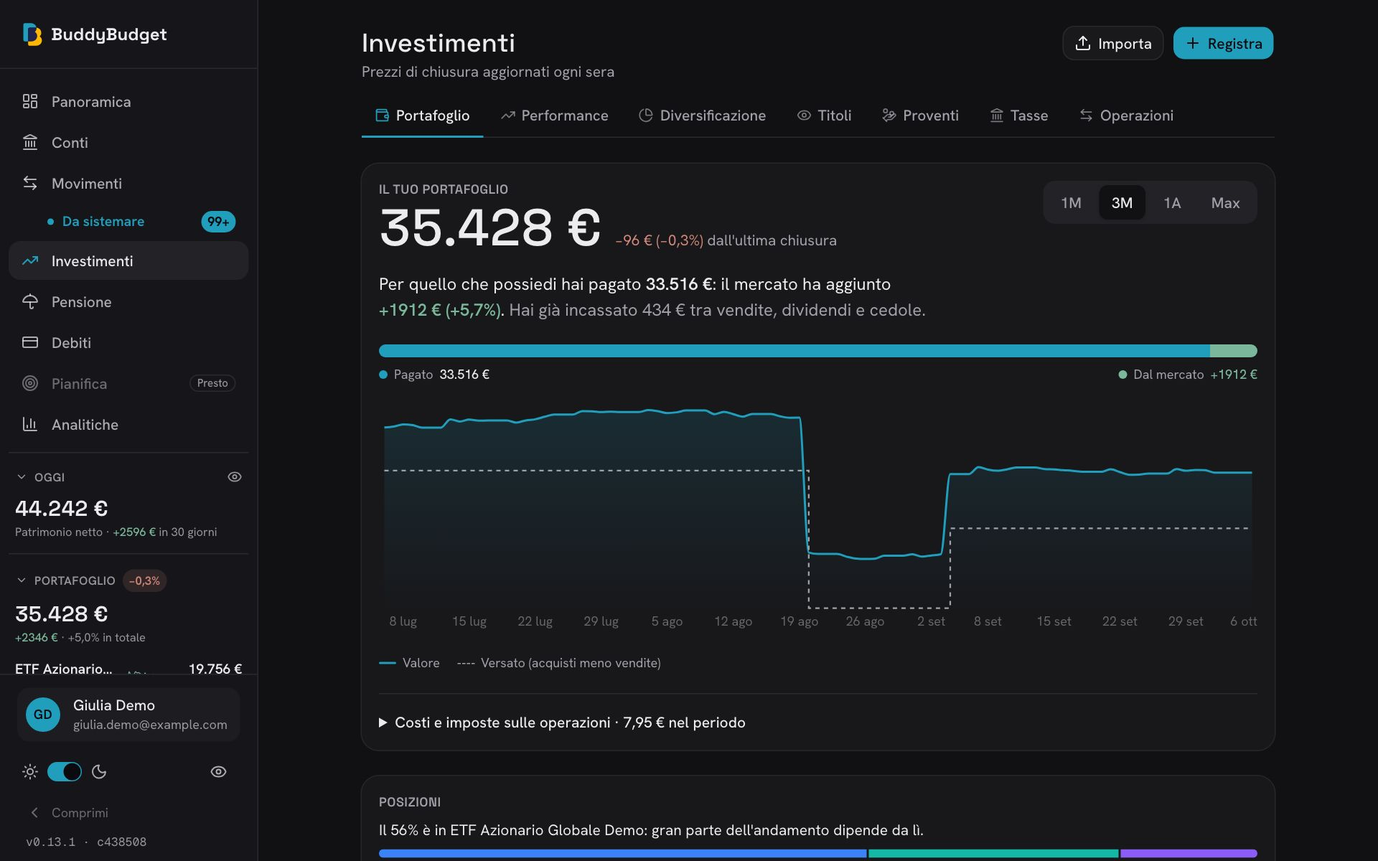
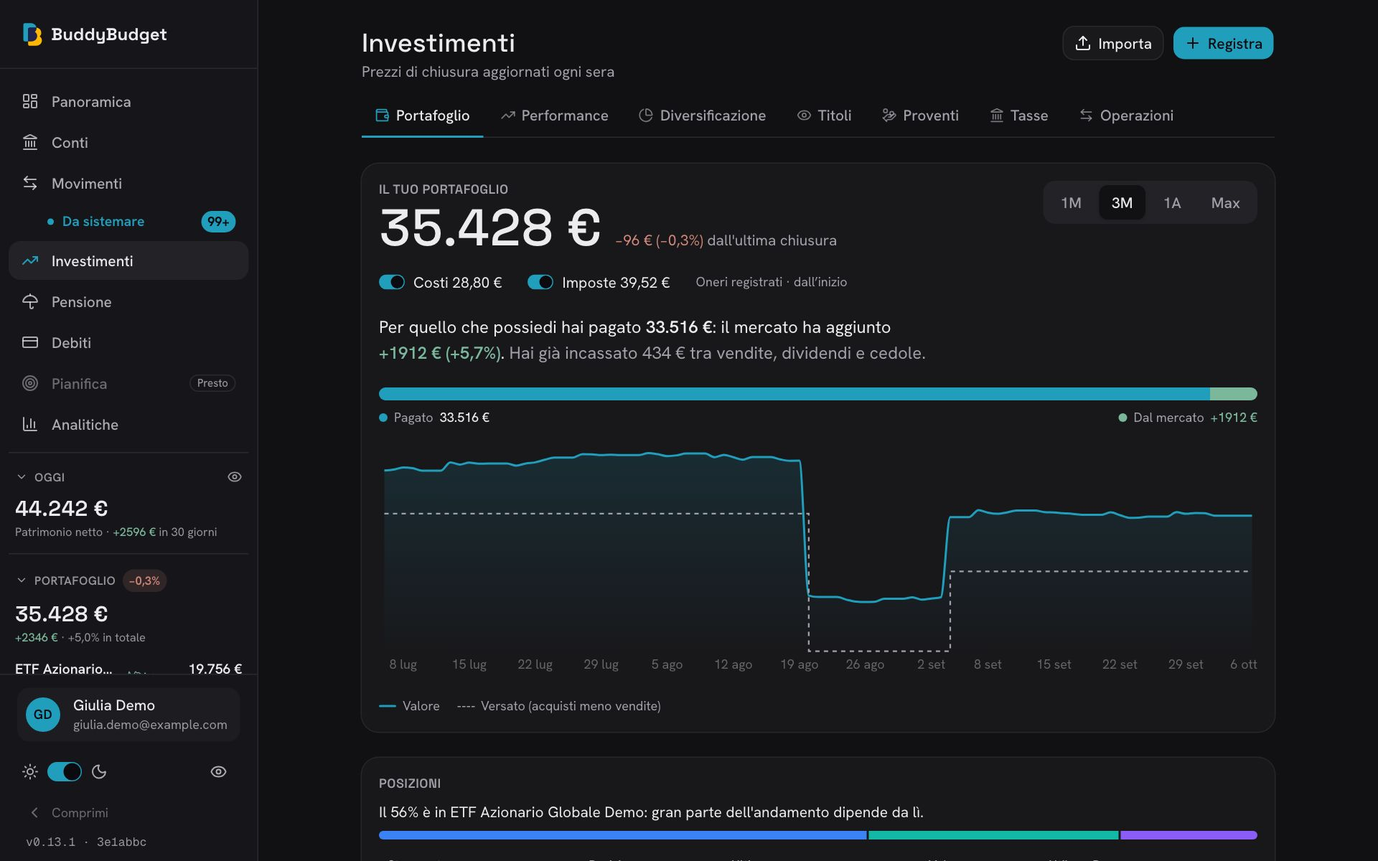
feat: simulate reinvested costs and taxes with independent toggles

diff --git a/lib/investments/cost-impact.test.ts b/lib/investments/cost-impact.test.ts
@@ -1,8 +1,7 @@
 import { expect, it } from "vitest";
 import { buildFxTable } from "@/lib/calc/fx";
 import { buildPriceIndex, type InvestmentTransactionInput } from "@/lib/calc/investments";
-import { computePortfolioReturns } from "@/lib/calc/returns";
-import { computeCostImpact } from "./cost-impact";
+import { computeCostImpact, simulateCostExclusions } from "./cost-impact";
 
 const tx = (extra: Partial<InvestmentTransactionInput>): InvestmentTransactionInput => ({
   id: "buy", instrumentId: "a", type: "acquisto", date: "2026-01-01", quantity: "10", price: "100", fxRate: "1", fees: "10", taxes: "0", grossAmount: null, ...extra,
@@ -12,41 +11,52 @@ function inputs(transactions: InvestmentTransactionInput[]) {
     priceIndex: buildPriceIndex([{ instrumentId: "a", date: "2026-01-01", close: "100", source: "yahoo" }, { instrumentId: "a", date: "2026-02-01", close: "110", source: "yahoo" }], []),
     fx: buildFxTable([]), userCurrency: "EUR", period: "max" as const, today: new Date("2026-02-01T12:00:00Z") };
 }
-it("shows exact charges and compounded gross/net impact without deducting twice", () => {
-  const params = inputs([tx({}), tx({ id: "div", type: "dividendo", date: "2026-02-01", quantity: "0", price: "0", fees: "0", taxes: "5", grossAmount: "20" })]);
-  const original = structuredClone(params.transactions);
-  const net = computePortfolioReturns(params)!.twr!;
-  const result = computeCostImpact(params, net, false);
-  expect(result.period).toEqual({ fees: 10, taxes: 5, total: 15 });
-  expect(result.grossReturn).toBeCloseTo(.12);
-  expect(result.netReturn).toBe(net);
-  expect(result.feeImpact! + result.taxImpact!).toBeCloseTo(result.totalImpact!);
-  expect(result.totalImpact).toBeLessThan(0);
-  expect(params.transactions).toEqual(original);
+it("reinvests saved costs and taxes from payment date at subsequent actual performance", () => {
+  const params = inputs([tx({ taxes: "5" })]);
+  const result = computeCostImpact(params, false);
+  expect(result.fees).toBe(10);
+  expect(result.taxes).toBe(5);
+  expect(result.additions["2026-01-01"]).toEqual({ fees: 10, taxes: 5 });
+  expect(result.additions["2026-02-01"].fees).toBeCloseTo(11);
+  expect(result.additions["2026-02-01"].taxes).toBeCloseTo(5.5);
 });
-it("uses user-currency charges once and excludes future and noncash adjustments", () => {
-  const params = inputs([tx({ fxRate: "2" }), tx({ id: "future", date: "2027-01-01", fees: "100" }), tx({ id: "adjust", type: "rettifica", fees: "50" })]);
-  expect(computeCostImpact(params, null, true).lifetime.fees).toBe(10);
-  expect(computeCostImpact(params, null, true).totalImpact).toBeNull();
+it("supports all four independent toggle combinations without changing actual data", () => {
+  const impact = computeCostImpact(inputs([tx({ taxes: "5" })]), false);
+  const series = [{ date: "2026-02-01", label: "Feb", value: 1100, bought: 1015, invested: 1015, income: 0 }];
+  expect(simulateCostExclusions(impact, series, 1100, true, true).value).toBe(1100);
+  expect(simulateCostExclusions(impact, series, 1100, false, true).value).toBeCloseTo(1111);
+  expect(simulateCostExclusions(impact, series, 1100, true, false).value).toBeCloseTo(1105.5);
+  const both = simulateCostExclusions(impact, series, 1100, false, false);
+  expect(both.value).toBeCloseTo(1116.5);
+  expect(both.series[0].value).toBe(both.value);
+  expect(series[0].value).toBe(1100);
+  expect(both.series[0].invested).toBe(1015);
 });
-it("separates period charges from lifetime and preserves signed refunds", () => {
-  const params = { ...inputs([tx({ date: "2025-01-01" }), tx({ id: "refund", type: "dividendo", date: "2026-02-01", quantity: "0", fees: "-2", taxes: "-1", grossAmount: "0" })]), period: "1mese" as const };
-  const result = computeCostImpact(params, computePortfolioReturns(params)!.twr, false);
-  expect(result.period).toEqual({ fees: -2, taxes: -1, total: -3 });
-  expect(result.lifetime).toEqual({ fees: 8, taxes: -1, total: 7 });
-  expect(result.totalImpact).toBeGreaterThan(0);
+it("keeps the same lifetime simulated value when changing the chart window", () => {
+  const params = inputs([tx({ date: "2025-01-01" })]);
+  expect(computeCostImpact({ ...params, period: "1mese" }, false).additions).toEqual(computeCostImpact(params, false).additions);
 });
-it("shows zero impact with no charges and handles no operations", () => {
-  const params = inputs([tx({ fees: "0" })]);
-  expect(computeCostImpact(params, computePortfolioReturns(params)!.twr, false).totalImpact).toBe(0);
-  expect(computeCostImpact(inputs([]), null, false).grossReturn).toBeNull();
+it("preserves signed refunds, excludes future and noncash charges, and does not convert charges again", () => {
+  const params = inputs([tx({ fxRate: "2" }), tx({ id: "future", date: "2027-01-01", fees: "100" }), tx({ id: "adjust", type: "rettifica", fees: "50" }), tx({ id: "refund", type: "dividendo", date: "2026-02-01", quantity: "0", fees: "-2", taxes: "-1", grossAmount: "0" })]);
+  const result = computeCostImpact(params, false);
+  expect(result.fees).toBe(8);
+  expect(result.taxes).toBe(-1);
 });
-it("includes sale charges after full liquidation and keeps prior-period charges out of the impact", () => {
-  const params = { ...inputs([tx({ date: "2025-01-01", fees: "100" }), tx({ id: "sell", type: "vendita", date: "2026-02-01", price: "110", fees: "2", taxes: "20" })]), period: "1mese" as const };
-  const result = computeCostImpact(params, computePortfolioReturns(params)!.twr, false);
-  expect(result.period.total).toBe(22);
-  expect(result.lifetime.total).toBe(122);
-  expect(result.grossReturn).toBeCloseTo(.1);
-  expect(result.netReturn).toBeCloseTo(.078);
-  expect(result.totalImpact).toBeCloseTo(-.022);
+it("disables simulation without valuation data", () => {
+  const impact = computeCostImpact(inputs([tx({})]), true);
+  expect(impact.available).toBe(false);
+  expect(simulateCostExclusions(impact, [], 1000, false, false).value).toBe(1000);
+  expect(computeCostImpact(inputs([]), false).available).toBe(false);
+});
+it("retains saved money when the actual portfolio is fully sold and no return is observable", () => {
+  const params = inputs([tx({}), tx({ id: "sell", type: "vendita", date: "2026-01-02", fees: "0" })]);
+  const result = computeCostImpact(params, false);
+  expect(result.additions["2026-02-01"].fees).toBeCloseTo(10);
+});
+it("saved money also follows portfolio losses rather than earning a fixed positive return", () => {
+  const params = inputs([tx({ taxes: "5" })]);
+  params.priceIndex = buildPriceIndex([{ instrumentId: "a", date: "2026-01-01", close: "100", source: "yahoo" }, { instrumentId: "a", date: "2026-02-01", close: "80", source: "yahoo" }], []);
+  const result = computeCostImpact(params, false);
+  expect(result.additions["2026-02-01"].fees).toBeCloseTo(8);
+  expect(result.additions["2026-02-01"].taxes).toBeCloseTo(4);
 });

diff --git a/lib/investments/cost-impact.ts b/lib/investments/cost-impact.ts
@@ -1,43 +1,57 @@
-import { periodStartKey } from "@/lib/calc/investments";
-import { toDateKey } from "@/lib/calc/net-worth";
-import { computePortfolioReturns } from "@/lib/calc/returns";
+import { computeDailyPortfolioValues, periodStartKey, type PortfolioSeriesPoint } from "@/lib/calc/investments";
+import { addDays, toDateKey } from "@/lib/calc/net-worth";
+import { parseDateOnly } from "@/lib/calc/expenses";
+import { computeDailyReturns, toDailyFlows, type computePortfolioReturns } from "@/lib/calc/returns";
 
 type ReturnInputs = Parameters<typeof computePortfolioReturns>[0];
-export interface CostTotals { fees: number; taxes: number; total: number }
 export interface CostImpact {
-  from: string | null;
-  to: string;
-  period: CostTotals;
-  lifetime: CostTotals;
-  grossReturn: number | null;
-  netReturn: number | null;
-  feeImpact: number | null;
-  taxImpact: number | null;
-  totalImpact: number | null;
+  fees: number;
+  taxes: number;
+  /** Saved charges invested at each day's close and grown at subsequent observed portfolio returns. */
+  additions: Record<string, { fees: number; taxes: number }>;
+  available: boolean;
 }
 
-/** Recorded transaction charges are already in user currency. Compare identical holdings with charges removed, never deduct them twice. */
-export function computeCostImpact(params: ReturnInputs, netReturn: number | null, unpriced: boolean): CostImpact {
+/** Reinvest recorded charges from their payment dates using actual daily portfolio performance, independently of the visible chart window. */
+export function computeCostImpact(params: ReturnInputs, unpriced: boolean): CostImpact {
   const to = toDateKey(params.today);
-  const from = periodStartKey(params.transactions, params.period, params.today);
-  const eligible = params.transactions.filter((t) => t.date <= to && t.type !== "split" && t.type !== "rettifica");
-  const sum = (rows: typeof eligible): CostTotals => {
-    const fees = rows.reduce((total, t) => total + Number(t.fees), 0);
-    const taxes = rows.reduce((total, t) => total + Number(t.taxes), 0);
-    return { fees, taxes, total: fees + taxes };
-  };
-  const period = sum(eligible.filter((t) => from !== null && t.date >= from));
-  const lifetime = sum(eligible);
-  const result: CostImpact = { from, to, period, lifetime, grossReturn: null, netReturn: null, feeImpact: null, taxImpact: null, totalImpact: null };
-  if (unpriced || netReturn === null || from === null || from > to) return result;
-  const simulate = (removeFees: boolean) => computePortfolioReturns({
-    ...params, benchmark: null, inflation: null,
-    transactions: params.transactions.map((t) => t.date >= from && t.date <= to
-      ? { ...t, fees: removeFees ? "0" : t.fees, taxes: "0" } : t),
-  })?.twr ?? null;
-  const afterFees = simulate(false);
-  const gross = simulate(true);
-  if (gross === null || afterFees === null || ![gross, afterFees, netReturn].every(Number.isFinite)) return result;
-  return { ...result, grossReturn: gross, netReturn,
-    feeImpact: afterFees - gross, taxImpact: netReturn - afterFees, totalImpact: netReturn - gross };
+  const transactions = params.transactions.filter((t) => t.date <= to);
+  const charges = new Map<string, { fees: number; taxes: number }>();
+  let fees = 0; let taxes = 0;
+  for (const t of transactions) {
+    if (t.type === "split" || t.type === "rettifica") continue;
+    const day = charges.get(t.date) ?? { fees: 0, taxes: 0 };
+    day.fees += Number(t.fees); day.taxes += Number(t.taxes);
+    fees += Number(t.fees); taxes += Number(t.taxes);
+    charges.set(t.date, day);
+  }
+  const result: CostImpact = { fees, taxes, additions: {}, available: false };
+  const first = periodStartKey(transactions, "max", params.today);
+  if (!first || unpriced) return result;
+  const base = toDateKey(addDays(parseDateOnly(first), -1));
+  const points = computeDailyPortfolioValues({ ...params, transactions, fromKey: base, toKey: to });
+  const returns = computeDailyReturns(points[0].value, toDailyFlows(points));
+  let savedFees = 0; let savedTaxes = 0;
+  for (const day of returns) {
+    // Without an invested portfolio there is no observed return: retain the saved amount as cash.
+    const growth = 1 + (day.ret ?? 0);
+    if (!Number.isFinite(growth) || growth < 0) return result;
+    const paid = charges.get(day.date);
+    savedFees = savedFees * growth + (paid?.fees ?? 0);
+    savedTaxes = savedTaxes * growth + (paid?.taxes ?? 0);
+    if (!Number.isFinite(savedFees) || !Number.isFinite(savedTaxes)) return result;
+    result.additions[day.date] = { fees: savedFees, taxes: savedTaxes };
+  }
+  result.available = true;
+  return result;
+}
+
+/** Apply independent cost/tax switches to the same observed series without mutating actual balances. */
+export function simulateCostExclusions(impact: CostImpact | undefined, series: PortfolioSeriesPoint[], value: number, includeFees: boolean, includeTaxes: boolean) {
+  const active = !!impact?.available && (!includeFees || !includeTaxes);
+  if (!active) return { active: false, series, value, extra: 0 };
+  const addition = (day?: { fees: number; taxes: number }) => (includeFees ? 0 : day?.fees ?? 0) + (includeTaxes ? 0 : day?.taxes ?? 0);
+  const extra = addition(Object.values(impact.additions).at(-1));
+  return { active: true, value: value + extra, extra,
+    series: series.map((point) => ({ ...point, value: point.value + addition(impact.additions[point.date]) })) };
 }

diff --git a/components/domain/investments/portfolio-hero-card.tsx b/components/domain/investments/portfolio-hero-card.tsx
@@ -5,7 +5,8 @@
  * la barra che lo scompone e l'andamento nel tempo del valore contro quanto hai versato.
  */
 
-import { CostImpactSummary } from "./cost-impact-summary";
+import { simulateCostExclusions } from "@/lib/investments/cost-impact";
+import { Switch } from "@/components/ui/switch";
 import type { CostImpact } from "@/lib/investments/cost-impact";
 import { Area, AreaChart, Line, XAxis, YAxis } from "recharts";
 import { NetWorthPeriodSelector } from "@/components/domain/net-worth";
@@ -49,6 +50,10 @@ function Tooltip({ active, payload, currency }: { active?: boolean; payload?: { 
 
 export interface PortfolioHeroCardProps {
   costImpact?: CostImpact;
+  includeFees?: boolean;
+  includeTaxes?: boolean;
+  onIncludeFeesChange?: (value: boolean) => void;
+  onIncludeTaxesChange?: (value: boolean) => void;
   summary: PortfolioSummary;
   breakdown: ValueBreakdown;
   series: PortfolioSeriesPoint[];
@@ -57,8 +62,9 @@ export interface PortfolioHeroCardProps {
   currency: string;
 }
 
-export function PortfolioHeroCard({ costImpact, summary, breakdown, series, period, onPeriodChange, currency }: PortfolioHeroCardProps) {
+export function PortfolioHeroCard({ costImpact, includeFees = true, includeTaxes = true, onIncludeFeesChange, onIncludeTaxesChange, summary, breakdown, series, period, onPeriodChange, currency }: PortfolioHeroCardProps) {
   const format = (amount: number) => formatCurrency(amount, currency, { maximumFractionDigits: 0 });
+  const simulation = simulateCostExclusions(costImpact, series, summary.totalValue, includeFees, includeTaxes);
   const gaining = breakdown.market >= 0;
   const marketPct = breakdown.paid > 0 ? breakdown.market / breakdown.paid : null;
   const hasHistory = series.length >= 2;
@@ -69,8 +75,8 @@ export function PortfolioHeroCard({ costImpact, summary, breakdown, series, peri
         <div className="flex flex-col gap-1">
           <CardTitle className="text-xs font-semibold uppercase tracking-wide text-muted-foreground">Il tuo portafoglio</CardTitle>
           <div className="flex flex-wrap items-baseline gap-x-3 gap-y-1">
-            <p className="font-heading text-4xl font-medium tabular-nums text-foreground sm:text-5xl">{format(summary.totalValue)}</p>
-            {summary.dayChange !== null && summary.dayChangePct !== null ? (
+            <p className="font-heading text-4xl font-medium tabular-nums text-foreground sm:text-5xl">{format(simulation.value)}</p>
+            {!simulation.active && summary.dayChange !== null && summary.dayChangePct !== null ? (
               <p className={cn("text-sm tabular-nums", summary.dayChange < 0 ? "text-neg" : "text-pos")}>
                 {summary.dayChange < 0 ? "−" : "+"}
                 {format(Math.abs(summary.dayChange))} ({pctText(summary.dayChangePct)})
@@ -82,6 +88,15 @@ export function PortfolioHeroCard({ costImpact, summary, breakdown, series, peri
         <NetWorthPeriodSelector value={period} onChange={onPeriodChange} />
       </CardHeader>
       <CardContent className="flex flex-col gap-5">
+        {costImpact ? (
+          <div className="flex flex-wrap items-center gap-x-6 gap-y-3 text-sm">
+            <label className="flex cursor-pointer items-center gap-2"><Switch size="sm" checked={includeFees} onCheckedChange={onIncludeFeesChange} disabled={!costImpact.available} />Costi {formatCurrency(costImpact.fees, currency)}</label>
+            <label className="flex cursor-pointer items-center gap-2"><Switch size="sm" checked={includeTaxes} onCheckedChange={onIncludeTaxesChange} disabled={!costImpact.available} />Imposte {formatCurrency(costImpact.taxes, currency)}</label>
+            <span className="text-xs text-muted-foreground">Oneri registrati · dall’inizio</span>
+          </div>
+        ) : null}
+        {simulation.active ? <p className="text-sm text-muted-foreground">Simulazione · {simulation.extra >= 0 ? "+" : ""}{formatCurrency(simulation.extra, currency)} con gli oneri esclusi reinvestiti.</p> : null}
+        {!simulation.active ? <>
         <p className="max-w-prose text-balance text-base text-foreground">
           Per quello che possiedi hai pagato <span className="font-semibold tabular-nums">{format(breakdown.paid)}</span>: il mercato ha{" "}
           {gaining ? "aggiunto" : "tolto"}{" "}
@@ -106,10 +121,11 @@ export function PortfolioHeroCard({ costImpact, summary, breakdown, series, peri
           ) : null}
         </p>
         <ValueBreakdownBar breakdown={breakdown} currency={currency} />
+        </> : null}
         {hasHistory ? (
           <div className="flex flex-col gap-2">
             <ChartContainer config={CHART_CONFIG} className="max-h-56 w-full">
-              <AreaChart data={series}>
+              <AreaChart data={simulation.series}>
                 <defs>
                   <linearGradient id={AREA_FILL_ID} x1="0" y1="0" x2="0" y2="1">
                     <stop offset="0%" stopColor="var(--color-value)" stopOpacity={0.25} />
@@ -135,7 +151,6 @@ export function PortfolioHeroCard({ costImpact, summary, breakdown, series, peri
         ) : (
           <p className="text-sm text-muted-foreground">L&apos;andamento comparirà quando ci saranno almeno due giorni di prezzi.</p>
         )}
-        {costImpact ? <CostImpactSummary impact={costImpact} currency={currency} /> : null}
       </CardContent>
     </Card>
   );

diff --git a/landing/content/catalog.generated.ts b/landing/content/catalog.generated.ts
@@ -51,7 +51,7 @@ export const FEATURES: readonly Feature[] = [
 
   f("etf-azioni-btp-fondi-e-crypto", "Investimenti", "ETF, azioni, BTP, fondi e crypto", "Prezzi di fine giornata da fonti gratuite con riserva automatica, cambi della BCE.", "live", "/investimenti"),
   f("operazioni-e-import-csv", "Investimenti", "Operazioni e import CSV", "Registra acquisti e vendite, importa da un file: Interactive Brokers e DEGIRO nello stesso portafoglio (cassa riconciliata, aggiornamento dei periodi sovrapposti e gestione degli import per broker in un menu espandibile nella scheda Operazioni), Yahoo Finance o un altro CSV.", "live"),
-  f("rendimenti-veri", "Investimenti", "Rendimenti veri", "Del portafoglio e dei tuoi soldi, al netto dell'inflazione. Costi e imposte registrati sulle operazioni, con confronto del rendimento prima e dopo gli addebiti.", "live"),
+  f("rendimenti-veri", "Investimenti", "Rendimenti veri", "Del portafoglio e dei tuoi soldi, al netto dell'inflazione. Disattiva costi e imposte registrati, indipendentemente, per simulare il valore e il grafico con gli importi risparmiati reinvestiti al rendimento del portafoglio.", "live"),
   f("confronto-con-un-indice", "Investimenti", "Confronto con un indice", "«Con gli stessi versamenti oggi avresti X invece di Y».", "live"),
   f("rischio", "Investimenti", "Rischio", "Un livello di rischio chiaro (da basso a molto alto), poi quanto oscilla, la perdita peggiore, se il rischio è stato ripagato e quanto segue l'indice.", "live"),
   f("diversificazione", "Investimenti", "Diversificazione", "Per area e settore guardando dentro gli ETF.", "live"),

diff --git a/lib/features/catalog.ts b/lib/features/catalog.ts
@@ -50,7 +50,7 @@ export const FEATURES: readonly Feature[] = [
 
   f("etf-azioni-btp-fondi-e-crypto", "Investimenti", "ETF, azioni, BTP, fondi e crypto", "Prezzi di fine giornata da fonti gratuite con riserva automatica, cambi della BCE.", "live", "/investimenti"),
   f("operazioni-e-import-csv", "Investimenti", "Operazioni e import CSV", "Registra acquisti e vendite, importa da un file: Interactive Brokers e DEGIRO nello stesso portafoglio (cassa riconciliata, aggiornamento dei periodi sovrapposti e gestione degli import per broker in un menu espandibile nella scheda Operazioni), Yahoo Finance o un altro CSV.", "live"),
-  f("rendimenti-veri", "Investimenti", "Rendimenti veri", "Del portafoglio e dei tuoi soldi, al netto dell'inflazione. Costi e imposte registrati sulle operazioni, con confronto del rendimento prima e dopo gli addebiti.", "live"),
+  f("rendimenti-veri", "Investimenti", "Rendimenti veri", "Del portafoglio e dei tuoi soldi, al netto dell'inflazione. Disattiva costi e imposte registrati, indipendentemente, per simulare il valore e il grafico con gli importi risparmiati reinvestiti al rendimento del portafoglio.", "live"),
   f("confronto-con-un-indice", "Investimenti", "Confronto con un indice", "«Con gli stessi versamenti oggi avresti X invece di Y».", "live"),
   f("rischio", "Investimenti", "Rischio", "Un livello di rischio chiaro (da basso a molto alto), poi quanto oscilla, la perdita peggiore, se il rischio è stato ripagato e quanto segue l'indice.", "live"),
   f("diversificazione", "Investimenti", "Diversificazione", "Per area e settore guardando dentro gli ETF.", "live"),

diff --git a/app/(app)/investimenti/page.tsx b/app/(app)/investimenti/page.tsx
@@ -21,8 +21,10 @@ import { useBackfillStatusQuery } from "@/lib/queries/investments";
 import { useInvestmentsView } from "@/lib/queries/investments-view";
 
 export default function InvestimentiPage() {
+  const [includeFees, setIncludeFees] = React.useState(true);
+  const [includeTaxes, setIncludeTaxes] = React.useState(true);
   const [period, setPeriod] = React.useState<NetWorthPeriod>(INVESTMENTS_DEFAULT_PERIOD);
-  const { overview, view, today } = useInvestmentsView(period);
+  const { overview, view, today } = useInvestmentsView(period, true);
   const instrumentIds = React.useMemo(() => view?.instruments.map((i) => i.id) ?? [], [view]);
   const backfill = useBackfillStatusQuery(instrumentIds);
   const [priceInstrument, setPriceInstrument] = React.useState<Instrument | null>(null);
@@ -40,6 +42,10 @@ export default function InvestimentiPage() {
           <>
             <PortfolioHeroCard
               costImpact={view.costImpact}
+              includeFees={includeFees}
+              includeTaxes={includeTaxes}
+              onIncludeFeesChange={setIncludeFees}
+              onIncludeTaxesChange={setIncludeTaxes}
               summary={view.summary}
               breakdown={computeValueBreakdown(view.summary)}
               series={view.series}

diff --git a/lib/queries/investments-view.ts b/lib/queries/investments-view.ts
@@ -8,11 +8,11 @@ import { useInvestmentsOverviewQuery } from "./investments";
 
 /**
  * Dati dell'overview di Investimenti già calcolati per il periodo dato, condivisi dalle schede (Portafoglio,
- * Performance, Diversificazione, Operazioni): la query è la stessa, quindi cambiare scheda non riscarica niente.
+ * Performance, Diversificazione, Operazioni). fullHistory carica tutti i prezzi per simulazioni dalla prima operazione.
  */
-export function useInvestmentsView(period: NetWorthPeriod) {
+export function useInvestmentsView(period: NetWorthPeriod, fullHistory = false) {
   const today = React.useMemo(() => startOfDay(new Date()), []);
-  const overview = useInvestmentsOverviewQuery(period);
+  const overview = useInvestmentsOverviewQuery(fullHistory ? "max" : period);
   const view = React.useMemo(
     () => (overview.data ? buildInvestmentsView(overview.data, period, today) : null),
     [overview.data, period, today]

diff --git a/lib/investments/view.ts b/lib/investments/view.ts
@@ -125,7 +125,7 @@ export function buildInvestmentsView(data: InvestmentData, period: NetWorthPerio
     operationMonths,
     usedInstruments: usedInstruments(data.transactions, instrumentsById),
     returns,
-    costImpact: computeCostImpact({ ...common, period, today }, returns?.twr ?? null, summary.unpricedCount > 0),
+    costImpact: computeCostImpact({ ...common, period, today }, summary.unpricedCount > 0),
     benchmark: data.benchmark,
     benchmarkFirstPriceDate: data.benchmark ? (priceIndex.get(data.benchmark.id)?.[0]?.date ?? null) : null,
     income: computeIncomeHistory(insights, summary.costBasis, todayKey),

diff --git a/docs/decisioni/2026-10-06-impatto-costi-imposte.md b/docs/decisioni/2026-10-06-impatto-costi-imposte.md
@@ -1,9 +1,9 @@
-# Costi e imposte nel Portafoglio
+# Simulazione senza costi e imposte nel Portafoglio
 
 Data: 2026-10-06
 
-Sezione espandibile nella card esistente: commissioni e imposte effettivamente registrate, nel periodo del grafico e dall’inizio.
-Confronto TWR degli stessi titoli e prezzi rimuovendo gli addebiti del periodo; prima l’effetto dei costi, poi quello delle imposte, con somma in punti percentuali. Nessuna doppia sottrazione o reinvestimento simulato.
-Importi già in valuta utente, rimborsi con segno conservato; escluse operazioni future e rettifiche non monetarie. Impatto nascosto senza valorizzazione sufficiente.
-Gli oneri autonomi del conto broker, il TER e le imposte stimate/non registrate sono esclusi e dichiarati in UI: integrarli richiede riconciliazione con gli oneri già attribuiti alle operazioni e uno storico cash completo.
-Verifica con fixture sintetiche e browser locale; nessuna modifica ai saldi o ai dati importati. Feature su branch locale distinto dalla PR di navigazione.
+Due interruttori indipendenti nella card esistente, inizialmente attivi: disattivando costi o imposte registrati si aggiornano valore e grafico simulati. Rimossi tabella e testo esplicativo esteso su richiesta dell’utente.
+Ogni addebito risparmiato viene reinvestito alla chiusura della propria data e cresce ai rendimenti giornalieri osservati del portafoglio nei giorni successivi, mantenendo identiche le operazioni reali. Senza portafoglio investito il risparmio resta liquido.
+La simulazione parte sempre dal primo investimento, indipendentemente dal periodo visibile. Flussi investiti e posizioni effettive restano invariati; i rimborsi hanno segno opposto. Nessuna modifica ai saldi salvati.
+Sono inclusi solo gli oneri registrati sulle operazioni (valuta utente); oneri autonomi del broker, TER e imposte non registrate restano fuori dal perimetro. Mancando la valorizzazione la simulazione è disabilitata.
+Test dei quattro stati, reinvestimento, indipendenza dal periodo, rimborsi, liquidazione completa e date future. Feature su branch locale distinto dalla PR di navigazione.

diff --git a/CLAUDE.md b/CLAUDE.md
@@ -186,7 +186,7 @@ Una schermata o feature nuova non è "completata" finché il catalogo non è agg
 
 ## Stato del progetto
 
-**Impatto costi e imposte (2026-10-06)**: sezione espandibile nel Portafoglio con importi registrati nel periodo e dall’inizio, confronto TWR prima/dopo e impatto in punti percentuali. Perimetro: oneri delle operazioni; commissioni autonome del conto, TER e imposte non registrate esclusi e indicati in UI. Branch locale `codex/portfolio-cost-impact`.
+**Impatto costi e imposte (2026-10-06)**: due interruttori indipendenti nel Portafoglio per costi e imposte; esclusione simula risparmi reinvestiti dal giorno di addebito al rendimento giornaliero osservato, aggiornando totale e grafico. Perimetro: oneri delle operazioni; commissioni autonome del conto, TER e imposte non registrate esclusi e indicati in UI. Branch locale `codex/portfolio-cost-impact`.
 
 **Gestione importazioni (2026-10-06)**: scheda Rendiconti rimossa; Gestisci importazioni ora in Operazioni, accessibile anche senza transazioni. Vecchi link reindirizzati. Nessuna modifica ai dati importati.
 
